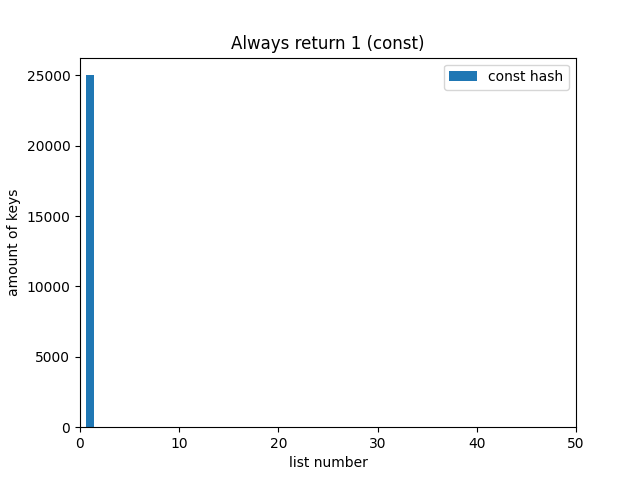
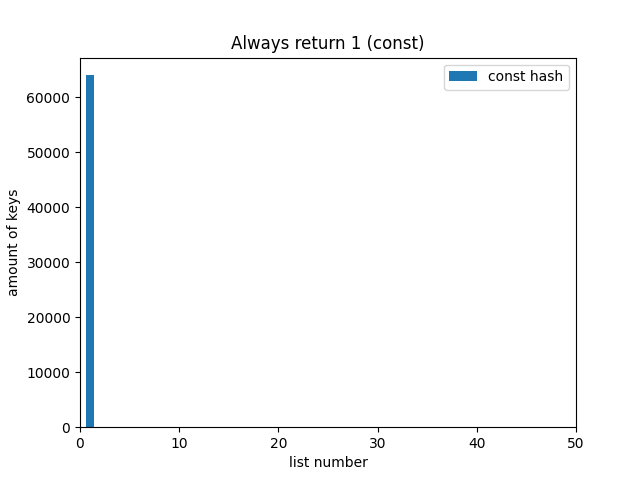
readme + changed size to 9973

diff --git a/include/hash_functions.h b/include/hash_functions.h
@@ -1,8 +1,10 @@
 #ifndef  __HASH_FUNCTIONS_H__
 #define  __HASH_FUNCTIONS_H__
 
+#include <stdint.h>
+
 #ifndef  HASH_MOD
-#define  HASH_MOD 4096
+#define  HASH_MOD 9973
 #endif //HASH_MOD
 
 
@@ -52,8 +54,7 @@ int hashRorXor(const char *key)
 
     while (*key != '\0')
     {
-        hash = ror_32t((unsigned)hash) ^ *key;
-        key++;
+        hash = ror_32t(hash) ^ *key++;
     }
 
     return hash;
@@ -77,7 +78,7 @@ int hashGNU(const char *key)
 
     while(*key != '\0')
     {
-        hash = (hash << 5) + hash; // hash = hash * 33;
+        hash = (hash << 7) - hash; // hash = hash * 127;
         hash = hash + *key++;
         hash = hash % HASH_MOD;
     }
@@ -85,12 +86,12 @@ int hashGNU(const char *key)
     return hash;
 }
 
-unsigned ror_32t(unsigned num)
+uint32_t ror_32t(uint32_t num)
 {
     return (num >> 1) + (num << (sizeof(num) * 8 - 1));
 }
 
-unsigned rol_32t(unsigned num)
+uint32_t rol_32t(uint32_t num)
 {
     return (num << 1) + (num >> (sizeof(num) * 8 - 1));
 }

diff --git a/average.py b/average.py
@@ -1,0 +1,28 @@
+import csv
+import math
+
+fileName = "hashAlways1.csv"
+
+
+dataDir = "hash_data/"
+
+values = []
+
+with open(dataDir + fileName, 'r') as dataFile:
+    plotting = csv.reader(dataFile, delimiter=',')
+
+    for ROWS in plotting:
+        values.append(int(ROWS[1]))
+    dataFile.close()
+
+length  = len(values)
+valSum  = sum(values)
+average = valSum / (length)
+
+stddev  = sum( (average - val)**2 for val in values)
+stddev  = stddev / length 
+stddev  = math.sqrt(stddev)
+
+print(fileName)
+print("stddev = " + str(stddev))
+

diff --git a/source/hash_func_test.cpp b/source/hash_func_test.cpp
@@ -7,10 +7,10 @@
 
 const int KeyStrLength = 256;
 
-const int ChainsNum         = 0x1000;  //4096
+const int ChainsNum         = 9973;
 const int ChainsNumChecksum = 599;
 
-const char *FileNameIn = "words_25000.txt";
+const char *FileNameIn = "words_changed.txt";
 
 #define DATA_DIR  "hash_data/"
 #define OUT_EXTEN ".csv"

diff --git a/README.md b/README.md
@@ -2,21 +2,23 @@
 
 ## О работе
 
-В данной работе реализована хэш-таблица с разрешением коллизий методом цепочек. **Цель работы**: оптимизировать хэш-таблицу, то есть уменьшить время работы ее операций. Для этого в работе производится сравнение различных хэш-функций с целью выбрать оптимальную. Кроме того, анализируется время работы операций таблицы и модифицируется исходный код тех из них, что затрачивают наибольшее время.
+В данной работе реализована хэш-таблица с разрешением коллизий методом цепочек. **Цель работы**: оптимизировать хэш-таблицу, то есть уменьшить время работы ее операций (поиска в ней). Для этого в работе производится сравнение различных хэш-функций с целью выбрать оптимальную. Кроме того, анализируется время работы операций таблицы и модифицируется исходный код тех из них, что затрачивают наибольшее время.
 
 ## О хэш-таблице с методом цепочек
 
-Хэш-таблица -- это структура данных, хранящая пары ключ-значение (и то, и другое может быть любым типом данных) и позволяющая получать значение по своему ключу в среднем за O(1). Хэш-таблица похожа на  массив, но в массиве ключи -- это числа от $0$ до $N-1$, где $N$ -- размер массива. В хэш-таблице ключи могут быть любыми, например, строковыми переменными. Именно такие ключи и используются в работе. Значениями в работе являются количества вхождения конкретного слова в заданный текст.
+Хэш-таблица -- это структура данных, хранящая пары ключ-значение (и то, и другое может быть любым типом данных) и позволяющая получать значение по своему ключу в среднем за O(1). Хэш-таблица похожа на  массив, но в массиве ключи строго фиксированы -- это числа от $0$ до $N-1$, где $N$ -- размер массива. В хэш-таблице ключи могут быть любыми, например, строковыми переменными. Именно такие ключи и используются в данной работе. Значениями в работе являются количества вхождения конкретного слова в заданный текст.
 
 Хэш-таблицу можно хранить как массив. Но для этого необходимо отобразить ключи на множество $\{0, 1, \cdots, N-1\}$. Этим занимается хэш функция. Однако неизбежны коллизии, то есть совпадения значений хэш-функции для различающихся ключей.
 
-Существуют разные способы разрешения коллизий, но в данной работе используется метод цепочек. Он заключается в следующем: для каждого значения хэш-функции в хэш-таблице есть связный список (неважно, односвязный или двусвязный), узлы которого есть пары ключей, для которых значение хэш-функции соответствует данному списку, и их значений. Тогда, если размеры всех списков небольшие и примерно одинаковые, хэш-таблица будет иметь в среднем константное время работы (не учитывая время работы хэш-функции). Отсюда заключаем, что важно подобрать хэш-функцию, дающую распределение ключей по спискам, близкое к равномерному.
+Существуют разные способы разрешения коллизий, но в данной работе используется метод цепочек. Он заключается в следующем: для каждого значения хэш-функции в хэш-таблице есть связный список (неважно, односвязный или двусвязный). Узлы этого списка есть пары ключ-значение, для ключей которых значение хэш-функции соответствует данному списку. Тогда, если размеры всех списков небольшие и примерно одинаковые, хэш-таблица будет иметь в среднем константное время работы (без учета времени работы хэш-функции). Отсюда заключаем, что важно подобрать хэш-функцию, дающую распределение ключей по спискам, близкое к равномерному.
 
 ## Часть 1. Поиск оптимальной хэш-функции
 
-Для сравнения хэш функций в качестве исходных данных был взят текст, состоящий из 25000 попарно различных английских слов. Выбранный размер хэш-таблицы 4096. Тогда load factor примерно равен 6.
-После загрузки исходных данных размеры списков, полученных при работе данной хэш-функции, записывались в файл. На их основе были построены гистограммы, представленные в работе.
-Также в работе представлена сравнительная таблица с дисперсиями для рассмотренных функций.
+### Методология
+
+Для сравнения хэш функций в качестве исходных данных был взят текст, состоящий из ~64000 попарно различных английских слов. Выбранный размер хэш-таблицы 9973 (число простое, чтобы уменьшить вероятность коллизии при взятии значения функции по модулю размера). Тогда load factor примерно равен 6,4.
+После загрузки исходных данных размеры списков, полученных при работе данной хэш-функции, записывались в файл. На их основе были построены гистограммы, представленные в работе ниже.
+Также в работе представлена сравнительная таблица со среднеквадратичными отклонениями для рассмотренных хэш-функций.
 
 Реализации тестируемых хэш-функций расположены в файле **hash_functions.h**.
 
@@ -28,35 +30,133 @@
 
 ### 2. Длина ключа
 
-Функция `hashKeyLength()` длину слова-ключа. Хотя ее значение не является одинаковым для всех ключей, длина английских слов слабо варьируется, причем некоторые значения длин встречаются чаще других. Такая функция не дает равномерное распределение и имеет слишком узкий диапазон значений, следовательно, это плохая функция.
+Функция `hashKeyLength()` возвращает длину слова-ключа. Хотя ее значение не является одинаковым для всех ключей, длина английских слов слабо варьируется, причем некоторые значения длин встречаются чаще других. Такая функция не дает равномерное распределение и имеет слишком узкий диапазон значений, следовательно, это плохая функция.
 
 ![Key Length](./hash_data/Key%20length%20(zoomed).png)
 
 
 ### 3. Первая буква ключа
 
-Функция `hashFirstLetter()` возвращает первую букву ключа. Она лучше, чем константа и чем длина слова, но диапазон значений букв слова узок (26 или 52, если различать заглавные и строчные буквы). Поэтому такая функция довольно плохая. 
+Функция `hashFirstLetter()` возвращает первую букву ключа. Она лучше, чем константа и чем длина слова, но диапазон значений букв слова узок (26 или 52  в зависимости от того, различаем ли мы заглавные и строчные буквы). Поэтому такая функция довольно плохая. 
 
 ![First Letter Zoomed](./hash_data/First%20letter%20(zoomed).png)
 
 ### 4. Контрольная сумма
 
-Функция `hashChecksum()` вычисляет сумму ASCII кодов букв в ключе. При тестировании ее на хэш-таблицах размером порядка 500-600 может сложиться впечатление, что это хорошая хэш-функция. На гистограмме распределения есть пики и впадины, но в целом значения контрольной суммы захватывают весь диапазон номеров списков (так как берется остатков по модулю размера хэш-таблицы).
+Функция `hashChecksum()` вычисляет сумму ASCII кодов букв в ключе. При тестировании ее на хэш-таблицах размером порядка 500-600 может сложиться впечатление, что это хорошая хэш-функция. На гистограмме распределения есть пики и впадины, но в целом значения контрольной суммы охватывают весь диапазон номеров списков (так как берется остаток по модулю размера хэш-таблицы).
 
 ![Checksum small size](./hash_data/Checksum%20(599%20keys).png)
 
-Но стоит помнить, что длина английских слов сильно ограничена,  поэтому ограничены будут и значения контрольной суммы. При рассмотрении данной функции на хэш-таблице большего размера можно заметить, что ее значения в основном не превосходят 2000, поэтому часть списков (в нашем случае, половина) не будет использоваться. Соответственно, это тоже плохая хэш-функция.
+Но стоит помнить, что длина английских слов сильно ограничена,  поэтому ограничены будут и значения контрольной суммы. При рассмотрении данной функции на хэш-таблице большего размера можно заметить, что ее значения в основном не превосходят 2000, поэтому значительная часть списков не будет использоваться. Соответственно, это тоже плохая хэш-функция.
 
-![Checksum big size](./hash_data/Checksum%20(4096%20keys).png)
+![Checksum big size](./hash_data/Checksum%20(9973%20keys).png)
 
 ### 5. Битовое вращение вправо с исключающим "или"
 
-Рассмотрим битовое представление числа. Каждый бит сдвинем вправо на одну позицию, а младший бит поместим на позицию старшего. Проведенную операцию назовем битовым вращением вправо (или циклическим битовым сдвигом вправо), а полученное число -- ее результатом.
+Рассмотрим битовое представление числа. Каждый бит сдвинем вправо на одну позицию, а младший бит, для которого нет позиции справа, поместим на позицию старшего. Проведенную операцию назовем битовым вращением вправо (или циклическим битовым сдвигом вправо), а полученное число -- ее результатом.
 
-В языке Си нет стандартной функции для этой операции, поэтому реализуем ее самостоятельно и сравним ассемблерные листинги написанной функции при использовании ключей оптимизации `-O0` и `-O3`. Стоит отметить, что существует ассемблерная инструкция  `ror`, которая делает битовое вращение вправо.
+В языке Си нет стандартной функции для этой операции, поэтому реализуем ее самостоятельно и сравним ассемблерные листинги написанной функции при использовании ключей оптимизации `-O0` и `-O3`. Стоит отметить, что существует ассемблерная инструкция `ror`, которая делает битовое вращение вправо. Проверим, сможет ли оптимизирующий компилятор правильно интерпретировать наши действия и заменить тело функции на инструкцию `ror`.
 
+Как видно из ассемблерных листингов с сайта [godbolt.org](https://godbolt.org/), компилятор gcc смог определить, что мы делаем битовое вращение вправо, и вставил в тело функции инструкцию `ror` даже при флаге оптимизации `-O0`!
 
+![ror-o0](./readme_assets/ror-o0.png)
 
+Однако при этом флаге ассемблерный код содержит много инструкций по работе с памятью. Посмотрим, что будет с флагом `-O3`.
 
+![ror-o3](./readme_assets/ror-o3.png)
 
+Теперь функция выполняет только пересылку между регистрами и инструкцию `ror`.
 
+Перейдем к заданию хэш-функции. Она вычисляется по рекуррентной формуле:
+$hash(0) = 0, hash(i) = ror(hash(i-1)) \oplus key[i]$. Здесь символ $\oplus$ обозначает операцию *исключающее "или"*. Вычисления продолжаются, пока в ключе остаются неиспользованные буквы (пока $i$ не больше длины ключа). Получившийся код на Си:
+
+```
+int hashRorXor(const char *key)
+{
+    int hash = 0;
+
+    while (*key != '\0')
+    {
+        hash = ror_32t(hash) ^ *key++;
+    }
+
+    return hash;
+}
+```
+
+Ниже представлена гистограмма распределения по спискам. Видно, что функция имеет высокие пики, но она лучше всех представленных ранее, так как область ее значений охватывает всю ось OX.
+
+![RorXor](./hash_data/Ror%20Xor%20hash.png)
+
+### 6. Битовое вращение влево с исключающим "или".
+
+Битовое вращение влево определяется аналогично вращению вправо. Результат анализа ассемблерных листингов функции, реализующей эту операцию, аналогичный. При флаге `-O0` компилятор также вставляет ассемблерную инструкцию `rol`, выполняющую эту операцию, а при флаге `-O3` функция состоит из двух  ассемблерных инструкций и `ret`.
+
+![rol-o0](./readme_assets/rol-o0.png)
+
+![rol-o3](./readme_assets/rol-o3.png)
+
+Функция задается рекуррентно по формуле: $hash(0) = 0, hash(i) = rol(hash(i-1)) \oplus key[i]$, где символ $\oplus$ обозначает операцию *исключающее "или"*. Код на Си также аналогичный.
+
+```
+int hashRolXor(const char *key)
+{
+    int hash = 0;
+
+    while (*key != '\0')
+    {
+        hash = rol_32t(hash) ^ *key++;
+    }
+
+    return hash;
+}
+```
+
+Гистограмма распределения:
+
+![RolXor](./hash_data/Rol%20Xor%20hash.png)
+
+Анализ двух последних гистограмм распределения позволяет понять, что функция `hashRolXor()` дает распределение заметно ближе к равномерному, чем `hashRorXor()`. Максимальное количество слов в списке для `rol` меньше 25, в то время как для `ror` оно превышает 60.  Это может быть связано с тем, что `ror` изменяет старшие биты значения, которые отбрасываются при взятии остатка по модулю размера хэш-таблицы (ведь номер списка не превосходит этого размера). Так как размер таблицы не очень большой (в нашем случае, меньше $2^{16}$) и английские слова обычно короче 16 букв, эти старшие биты вообще не влияют на распределение по спискам. С другой стороны, `rol` меняет биты от младшего с старшему, поэтому `hashRolXor()` при небольших размерах таблицы работает лучше.
+
+### 7. Полиномиальный хэш. GNU hash.
+
+Полиномиальный хэш вычисляется по рекуррентной формуле:
+$hash(0) = 0, hash(i) = (p \cdot hash(i-1)+ key[i]) \% m$, где $p$ и $m$ - числа. Для минимизации коллизий $p$ выбирается простым и достаточно большим, больше всех возможных значений $key[i]$, $m$ может быть достаточно большим простым числом. В нашем случае в качестве $m$ мы возьмем размер хэш-таблицы.
+
+GNU hash отличается от полиномиального хэша тем, что в качестве $p$ берутся числа Мерсенна, то есть простые числа, равные $2^n - 1$ при некотором $n$. Это нужно для ускорения вычислений: для умножения на такое число достаточно сделать битовый сдвиг и одно вычитание, что работает быстрее, чем умножение на произвольное число. Так как наши значения $key[i]$ это ASCII коды букв латинского алфавита (максимальный из них 122), нам подойдет число 127. Имеем следующий код на Си:
+
+```
+int hashGNU(const char *key)
+{
+    int hash = 0;
+
+    while(*key != '\0')
+    {
+        hash = (hash << 7) - hash;
+        hash = hash + *key++;
+        hash = hash % HASH_MOD;
+    }
+
+    return hash;
+}
+```
+
+Гистограмма распределения представлена ниже. Визуальный анализ показывает, что это хорошая хэш-функция.
+
+![GNU hash](./hash_data/GNU%20hash.png)
+
+### Среднеквадратичное отклонение
+
+Имеем сравнительную таблицу со среднеквадратичными отклонениями. В ней функции отсортированы в порядке возрастания стандартного отклонения.
+
+| Хэш-функция  | Стандартное отклонение |
+|:------------:|:----------------------:|
+| GNU hash     |   2.52                 |
+| Rol Xor      |   4.68                 |
+| Ror Xor      |   8.85                 |
+| Checksum     |  26.72                 |
+| First Letter | 158.00                 |
+| Key Length   | 218.06                 |
+| Const Hash   | 640.77                 |
+
+Распределение, наиболее близкое к равномерному, было получено с помощью функции `hashGNU()`. Ее мы и будем использовать в дальнейшем при выполнении второй части работы.
